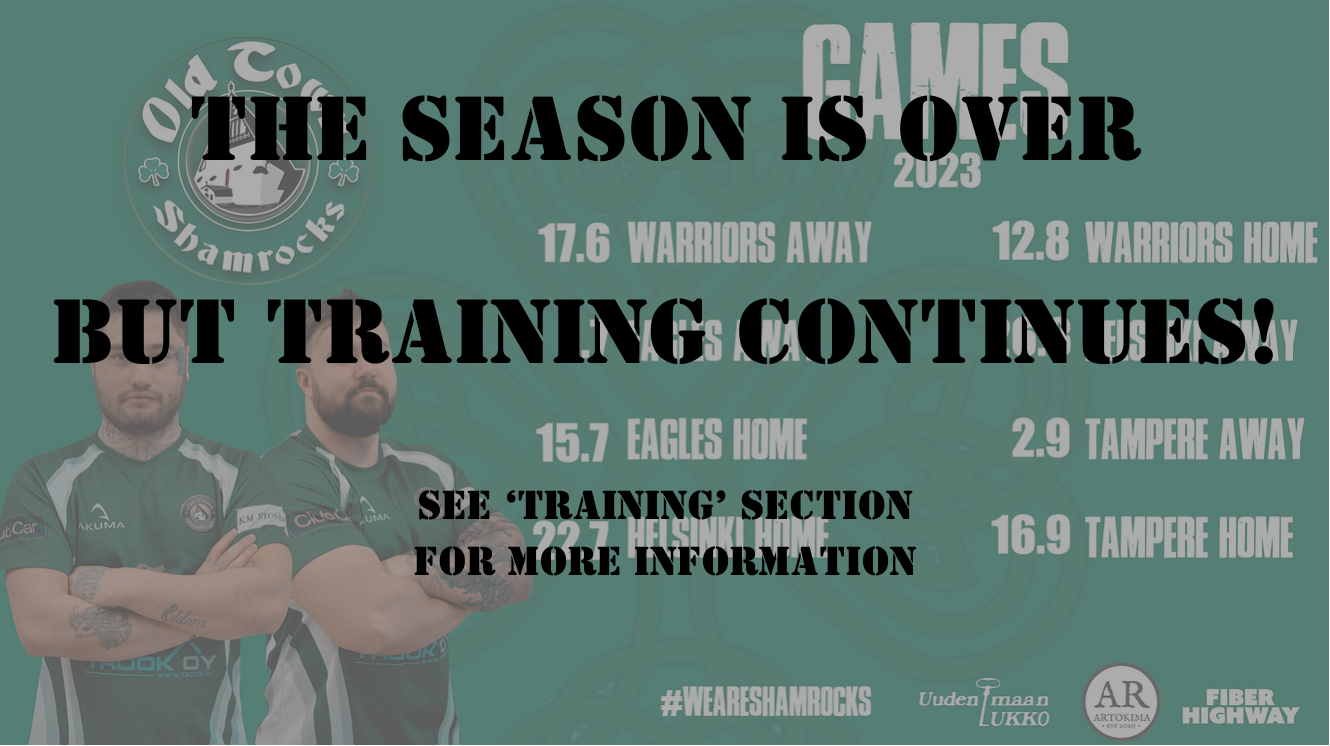
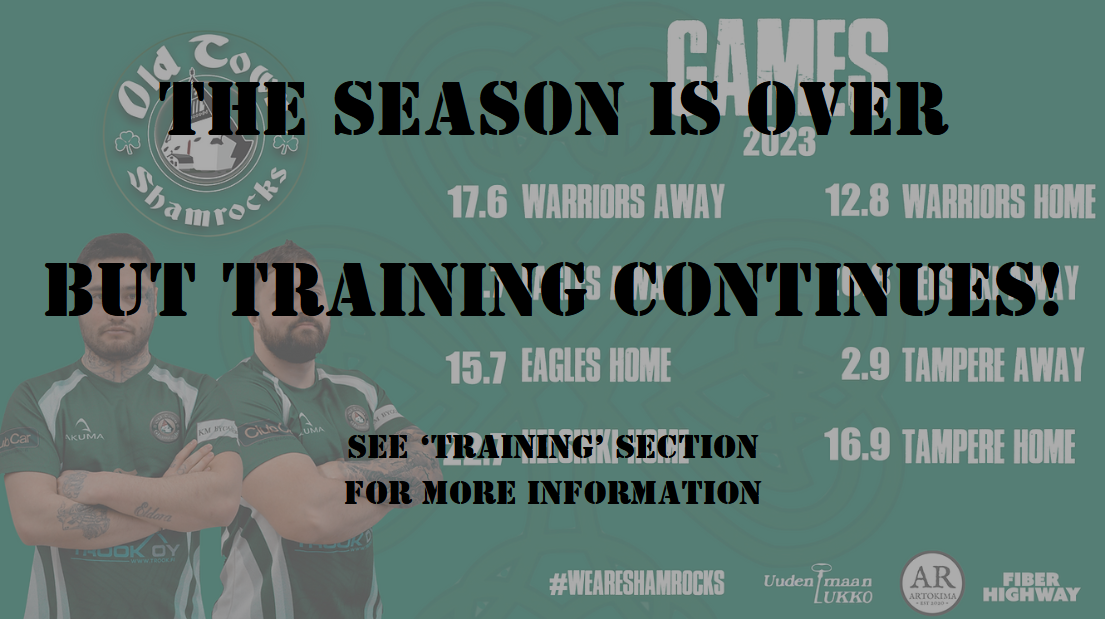
Fixtures picture updated

diff --git a/index.html b/index.html
@@ -418,7 +418,7 @@
       <div class="content-container">
       <h1 class="section-title">FIXTURES</h1>
     </div>
-        <img src="Images/Fixtures.png" alt="Fixtures" class="fixtures-picture">
+        <img src="Images/Fixtures EOS.png" alt="Fixtures" class="fixtures-picture">
         <div class="content-container">
           <h2 class="fixtures-subtitle">2023 Championship</h2>
           <h3 class="fixtures-subtitle">OTS FIXTURES &amp; RESULTS</h3>
